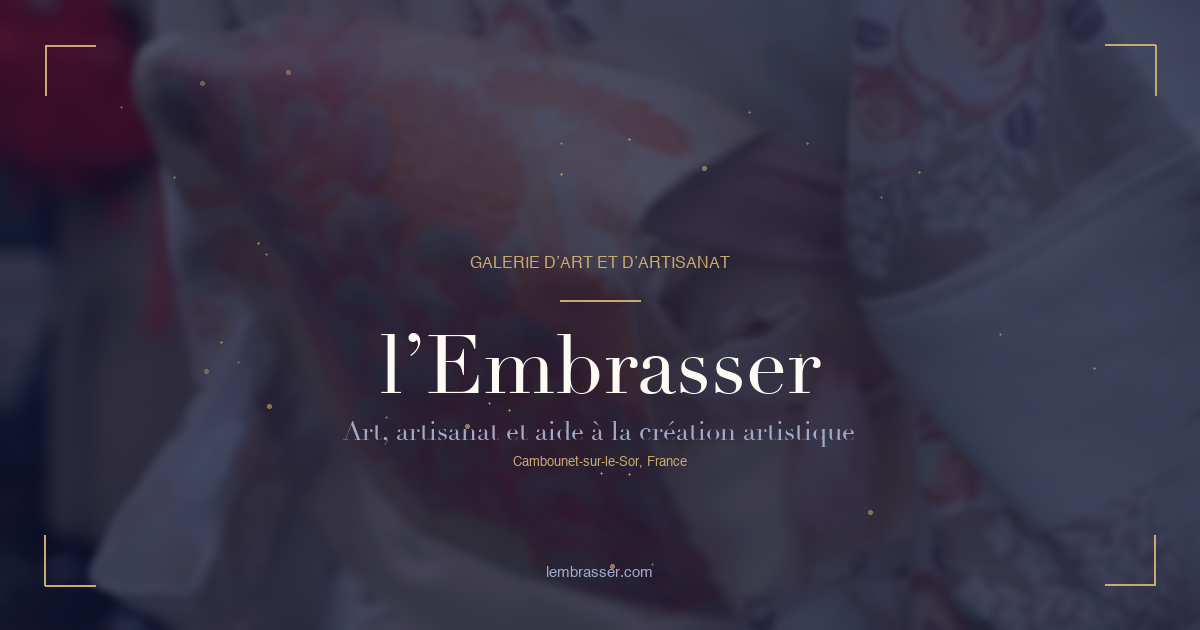
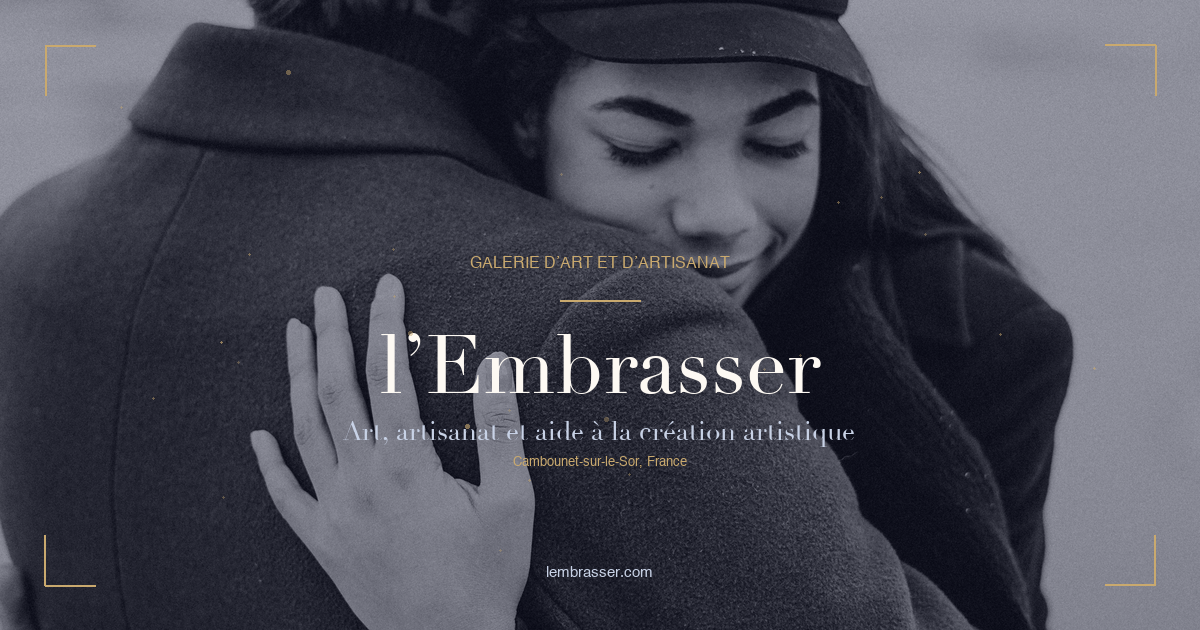
fix: Pip feedback — embrace hero with no overlay, lighter OG image
- Replace video hero with static embrace photo, zero overlay
- Regenerate OG/social images with embrace photo and lighter overlay

diff --git a/src/components/Hero.jsx b/src/components/Hero.jsx
@@ -12,24 +12,14 @@ export default function Hero() {
 
   return (
     <section className="relative h-screen flex items-center justify-center overflow-hidden">
-      {/* Video background */}
+      {/* Background image — no overlay per Pip */}
       <div className="absolute inset-0">
-        <video
-          autoPlay
-          muted
-          loop
-          playsInline
-          poster="/images/embrace.jpg"
+        <img
+          src="/images/embrace.jpg"
+          alt=""
           className={`w-full h-full object-cover transition-opacity duration-1000 ${loaded ? 'opacity-100' : 'opacity-0'}`}
-          onCanPlay={() => setLoaded(true)}
-        >
-          <source src="/images/hero-video.mp4" type="video/mp4" />
-        </video>
-        {/* Multi-layer overlay for depth — 20% opacity per Pip */}
-        <div className="absolute inset-0 bg-gradient-to-b from-navy-900/30 via-navy-900/20 to-navy-900/40" />
-        <div className="absolute inset-0 bg-gradient-to-r from-navy-900/15 via-transparent to-navy-900/15" />
-        {/* Film grain texture */}
-        <div className="absolute inset-0 hero-grain opacity-[0.03]" />
+          onLoad={() => setLoaded(true)}
+        />
       </div>
 
       {/* Floating particles */}
